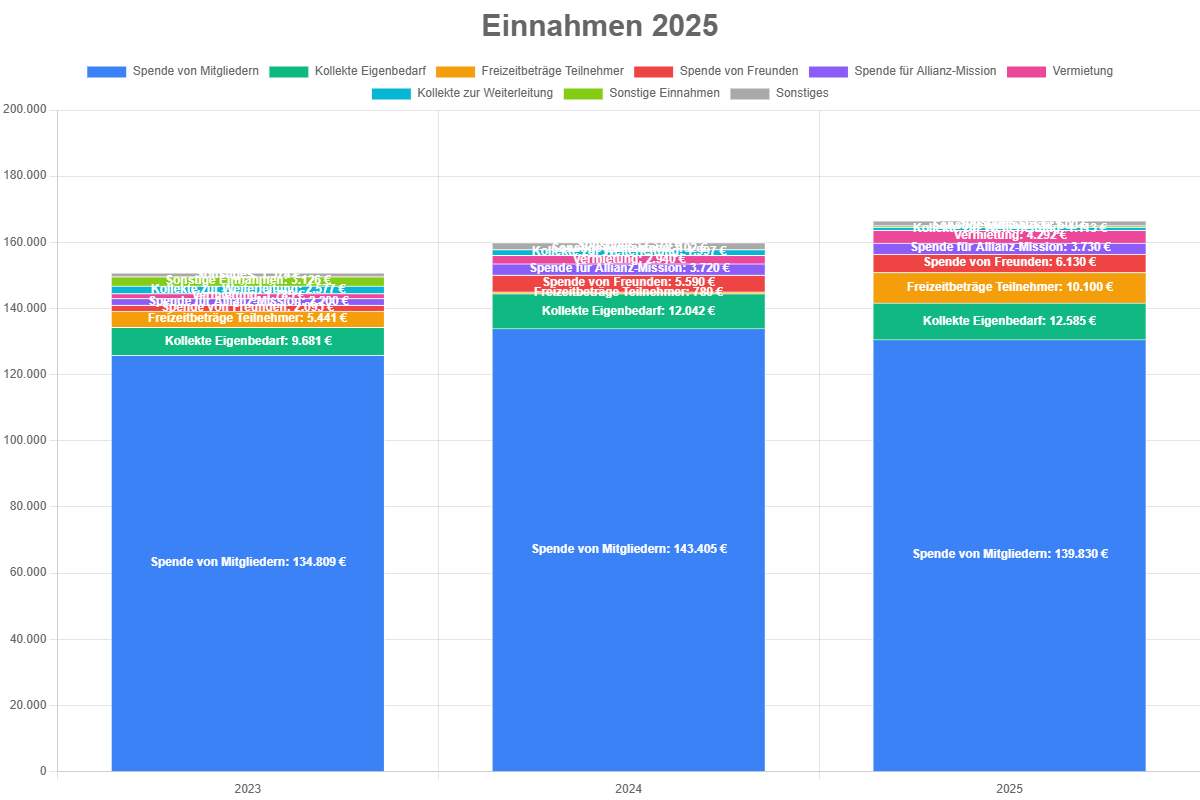
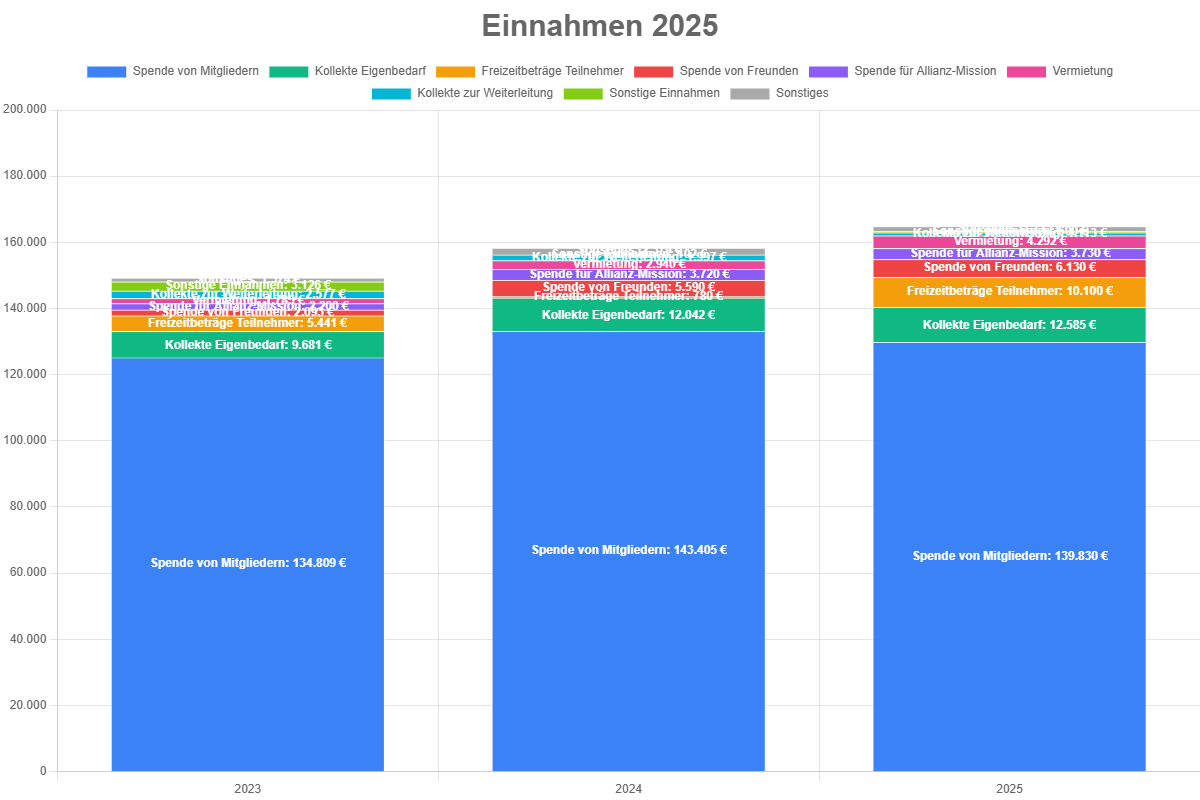
fix: 2025 wird jetzt richtig dargestellt. Alleding fällt mir auf, dass der Zinswert falsch dargestelllt wird

diff --git a/lib/charts.js b/lib/charts.js
@@ -62,8 +62,7 @@
     try {
         const enforcedTotals = {
             '2023': 123335,
-            '2024': 116121,
-            '2025': 143991
+            '2024': 116121
         };
 
         yearsToProcess.forEach(y => {
@@ -167,8 +166,7 @@ function generateAusgabenJsonFromSorted(sortedExpensesData, years, currentYear) 
         const reports = readProfitLossReports();
         const enforcedTotals = {
             '2023': 123335,
-            '2024': 116121,
-            '2025': 143991
+            '2024': 116121
         };
         yearsToProcess.forEach(y => {
             const ys = String(y);
@@ -298,23 +296,17 @@ async function generateAusgabenChartFromJson(reportYear) {
             sumTop += Math.abs(val || 0);
         });
         // authoritative total for this year (sum of all expense-related rows excluding zinsen)
-        // For the specific reportYear (latest year) enforce known total if provided by requirements
         let authoritative = 0;
-        if (String(reportYear) === yearStr) {
-            // enforce the target total for the latest year as requested
-            authoritative = 143991; // enforced total for 2025 per user request
-        } else {
-            const report = reports[yearStr] || [];
-            report.forEach(r => {
-                const kk = (r.Kontoklasse || r['Kontoklasse'] || '').toString().toLowerCase();
-                const name = (r.Name || r['Name'] || '').toString().toLowerCase();
-                const v = parseGermanNumber(r.Summe || r['Summe'] || 0);
-                if (name.includes('zinsen für darlehen')) return; // excluded
-                if (v < 0 || includeClasses.some(ic => kk.includes(ic))) {
-                    authoritative += Math.abs(v || 0);
-                }
-            });
-        }
+        const report = reports[yearStr] || [];
+        report.forEach(r => {
+            const kk = (r.Kontoklasse || r['Kontoklasse'] || '').toString().toLowerCase();
+            const name = (r.Name || r['Name'] || '').toString().toLowerCase();
+            const v = parseGermanNumber(r.Summe || r['Summe'] || 0);
+            if (name.includes('zinsen für darlehen')) return; // excluded
+            if (v < 0 || includeClasses.some(ic => kk.includes(ic))) {
+                authoritative += Math.abs(v || 0);
+            }
+        });
         const sonst = Math.max(0, authoritative - sumTop);
         out['Sonstiges'] = sonst;
         // Darlehensleistungen as negative value

diff --git a/generate-presentation.js b/generate-presentation.js
@@ -362,31 +362,10 @@ async function createPresentation() {
     logToFile('Error logging sortedExpensesData: ' + e.message);
   }
 
-  // Generate Ausgaben JSON
+    // Generate Ausgaben JSON
   if (chartsModule.generateAusgabenJsonFromSorted && excelResult.sortedExpensesData && Array.isArray(excelResult.sortedExpensesData.data) && excelResult.sortedExpensesData.data.length > 0) {
     const outPath = chartsModule.generateAusgabenJsonFromSorted(excelResult.sortedExpensesData, years, currentYear);
     logToFile(`Ausgaben JSON erstellt: ${outPath}`);
-    // Enforce authoritative total for report year (e.g., 143991 for 2025)
-    try {
-      const reportYear = String(currentYear - 1);
-      const enforcedTotals = { [reportYear]: 143991 };
-      const enforced = enforcedTotals[reportYear];
-      if (enforced !== undefined) {
-        const jsonFile = outPath;
-        if (jsonFile && fs.existsSync(jsonFile)) {
-          const j = JSON.parse(fs.readFileSync(jsonFile, 'utf8')) || {};
-          const yearObj = j[reportYear] || {};
-          // compute known sum excluding Darlehensleistungen and Sonstiges
-          let known = 0;
-          Object.entries(yearObj).forEach(([k,v]) => { if (k !== 'Sonstiges' && k !== 'Darlehensleistungen') known += Math.abs(v || 0); });
-          const newSonst = Math.max(0, enforced - known);
-          yearObj['Sonstiges'] = newSonst;
-          j[reportYear] = yearObj;
-          fs.writeFileSync(jsonFile, JSON.stringify(j, null, 2), 'utf8');
-          logToFile(`Enforced Ausgaben total for ${reportYear}: set Sonstiges=${newSonst}`);
-        }
-      }
-    } catch (e) { logToFile('Fehler beim Erzwingen Ausgaben-Summe: ' + e.message); }
   } else if (chartsModule.generateAusgabenJson) {
     await chartsModule.generateAusgabenJson(currentYear);
     logToFile('Ausgaben JSON erstellt (fallback raw reports)');

diff --git a/Daten/result/Ausgaben_2025.html b/Daten/result/Ausgaben_2025.html
@@ -94,7 +94,7 @@
       "data": [
         29988.69,
         19071.72,
-        44541.18000000001
+        31868.04
       ],
       "backgroundColor": "#A9A9A9",
       "borderColor": "#ffffff",
